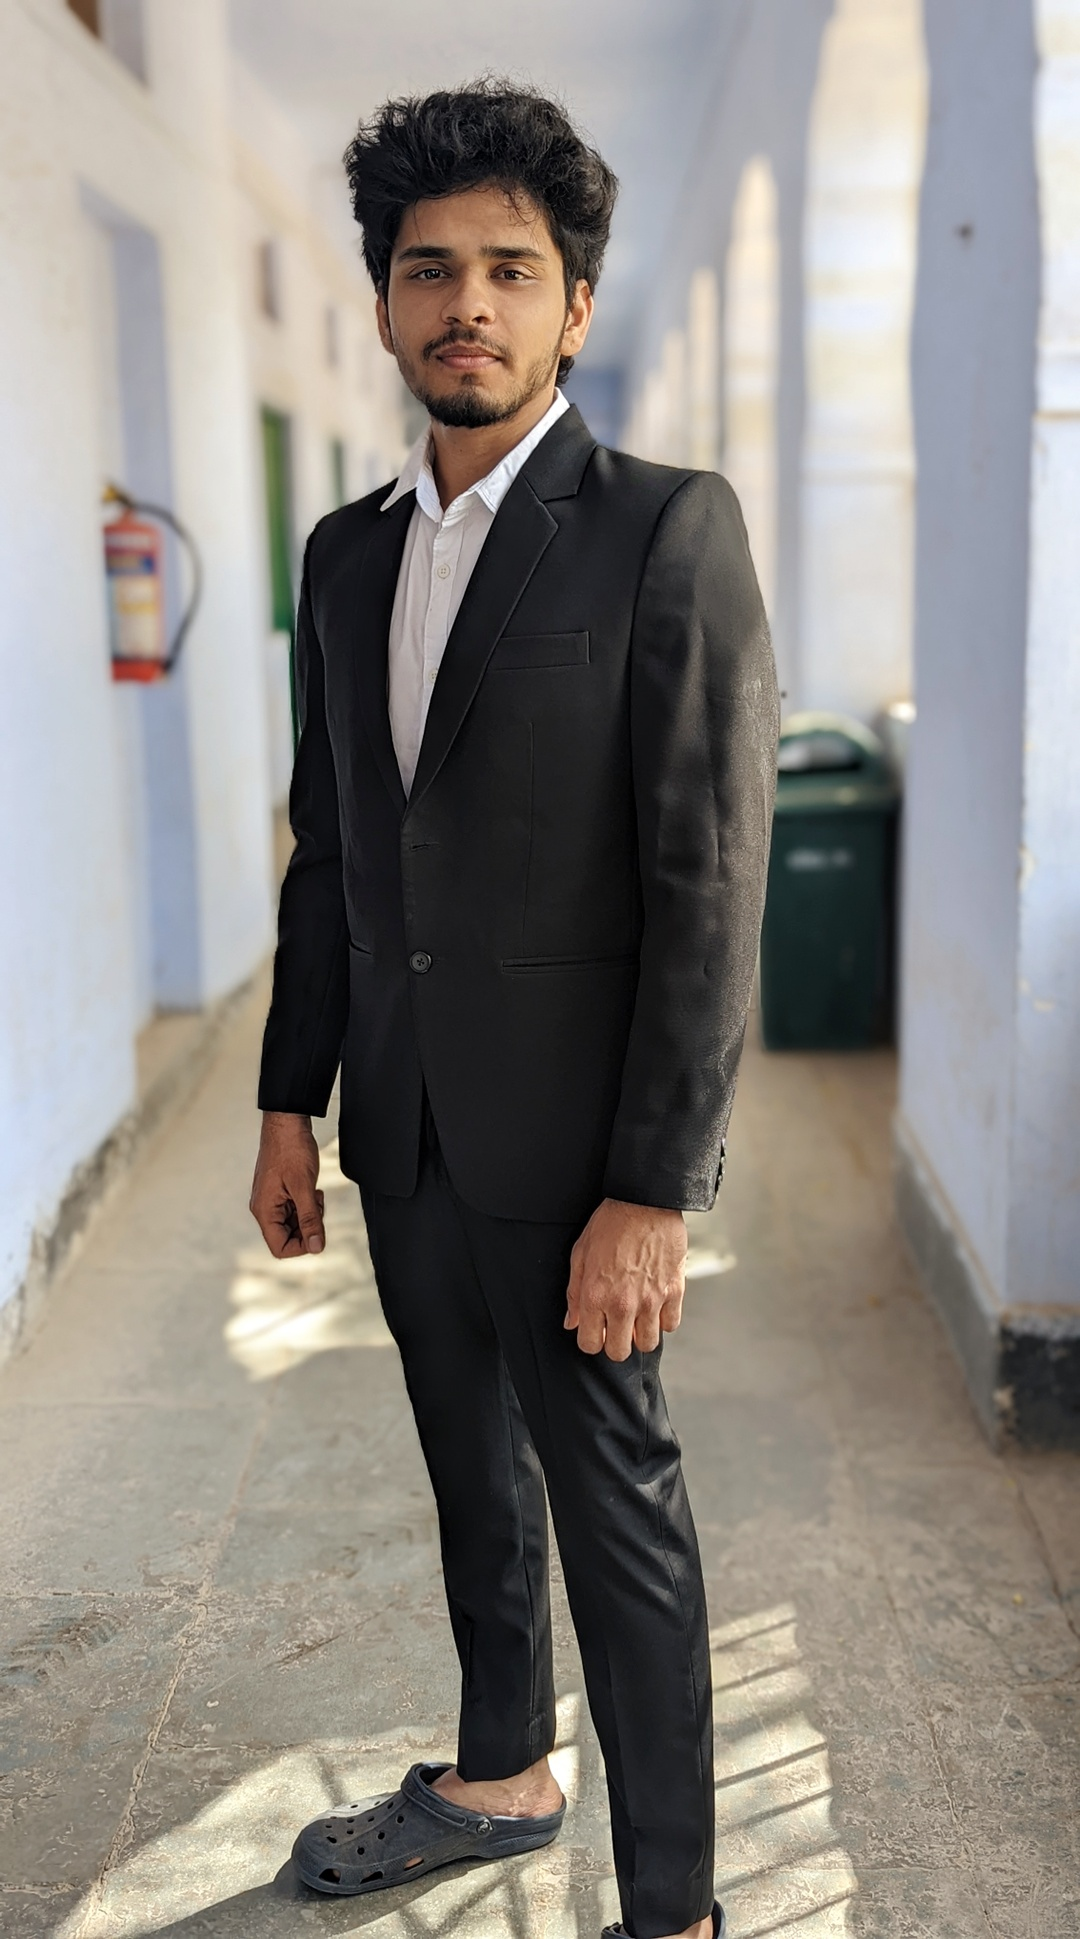
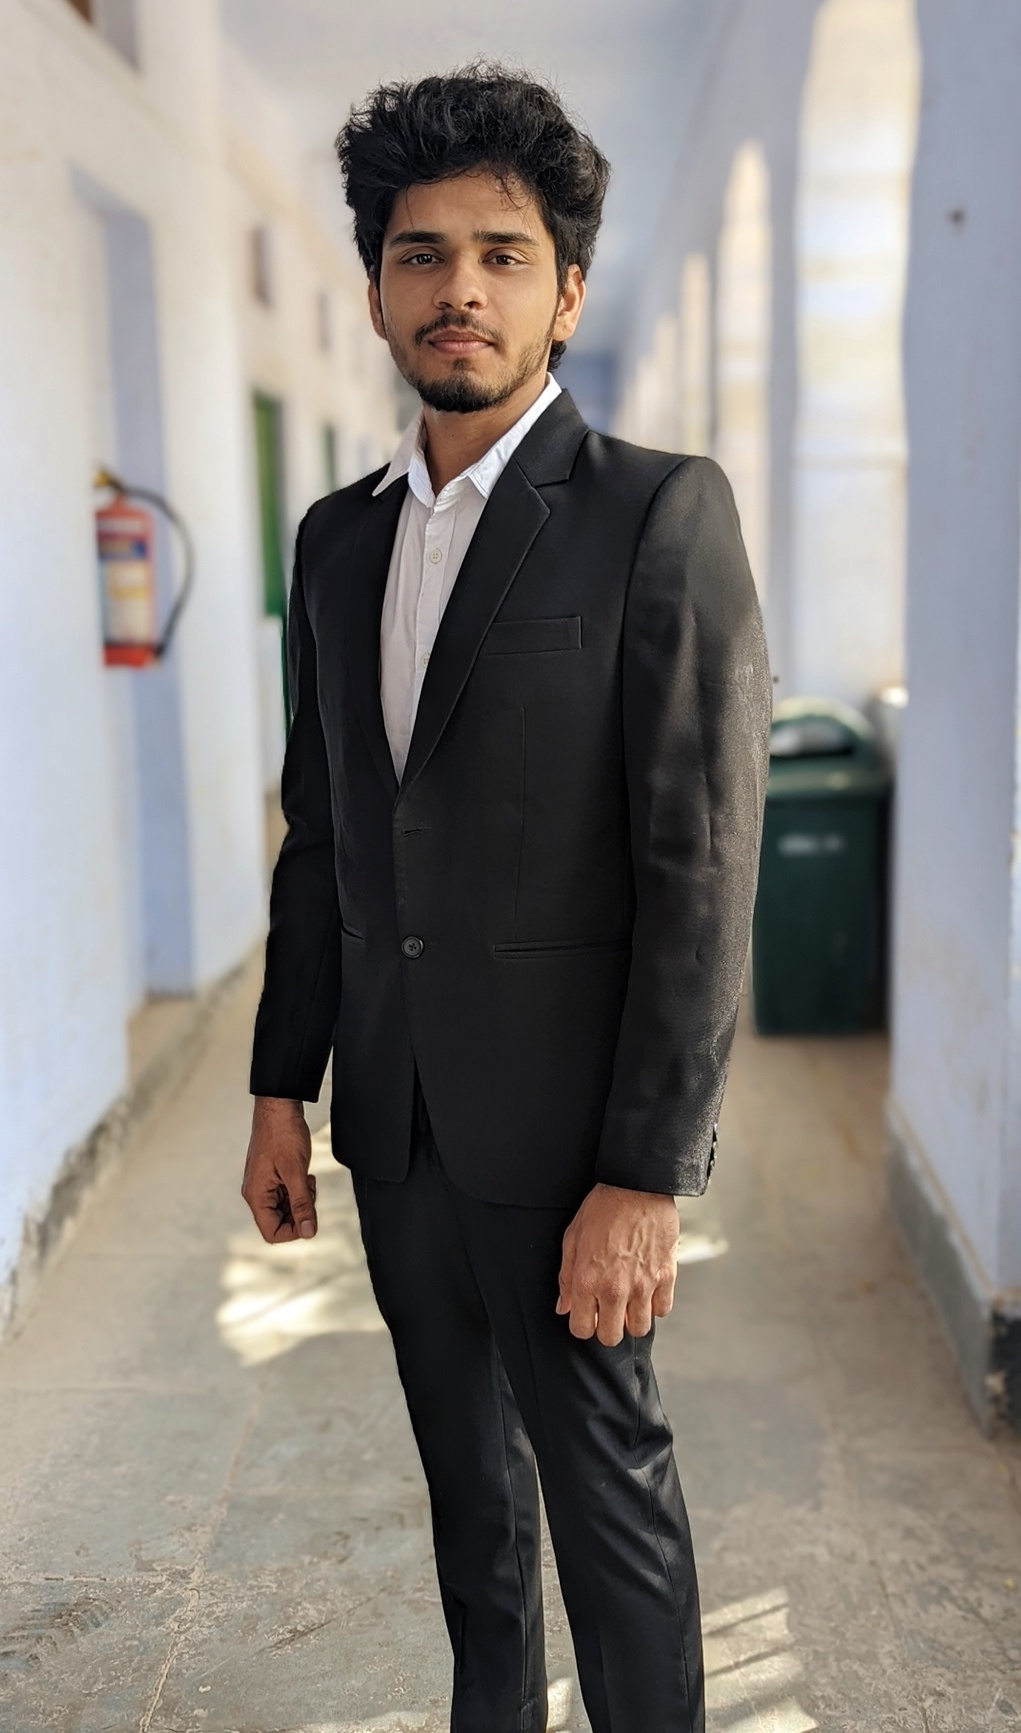
commented out projects

diff --git a/src/components/sections/about.js b/src/components/sections/about.js
@@ -61,30 +61,16 @@ const StyledPic = styled.div`
     position: relative;
     width: 100%;
     border-radius: var(--border-radius);
-    background-color: transparent;
+    background-color: var(--green);
 
-    &:hover,
-    &:focus {
-      background: transparent;
-      outline: 0;
-
-      &:after {
-        top: 15px;
-        left: 15px;
-      }
-
-      .img {
-        filter: none;
-        mix-blend-mode: normal;
-      }
-    }
+    
 
     .img {
       position: relative;
       border-radius: var(--border-radius);
       mix-blend-mode: multiply;
-      filter: grayscale(100%) contrast(1);
-      transition: var(--transition);
+      filter: none;
+      
     }
 
     &:before,
@@ -160,7 +146,7 @@ const About = () => {
         </StyledText>
 
         <StyledPic>
-          <div className="wrapper">
+          
             <StaticImage
               className="img"
               src="../../images/me.jpg"
@@ -169,7 +155,7 @@ const About = () => {
               formats={['AUTO', 'WEBP', 'AVIF']}
               alt="Headshot"
             />
-          </div>
+          
         </StyledPic>
       </div>
     </StyledAboutSection>

diff --git a/src/components/sections/hero.js b/src/components/sections/hero.js
@@ -63,11 +63,7 @@ const Hero = () => {
   const three = <h3 className="big-heading">I love to work and learn in Computer Science, A.I. and Biology.</h3>;
   const four = (
     <p>
-      Graduated with dual majors in Computer Science and Biological Sciences from BITS Pilani, Pilani Campus, India, in June 2022. I am currently working on Deep fake detection and interpretaibility in Computer Vision at // {' '}
-      // <a href="https://www.harvard.edu/" target="_blank" rel="noreferrer">
-      // Harvard University
-      // </a>
-      .
+      Graduated with dual majors in Computer Science and Biological Sciences from BITS Pilani, Pilani Campus, India, in June 2022. I am currently working on Deep fake detection and interpretaibility in Computer Vision.
     </p>
   );
   const five = (

diff --git a/src/components/loader.js b/src/components/loader.js
@@ -53,7 +53,7 @@ const Loader = ({ finishLoading }) => {
         strokeDashoffset: [anime.setDashoffset, 0],
       })
       .add({
-        targets: '#logo #B',
+        targets: '#logo #R',
         duration: 700,
         easing: 'easeInOutQuart',
         opacity: 1,

diff --git a/content/jobs/TIFR/index.md b/content/jobs/TIFR/index.md
@@ -1,11 +1,12 @@
 ---
 date: '2020-04-01'
 title: 'Research Collaborator'
-company: 'Tata Institute of Fundamental Research (TIFR)'
+company: 'TIFR'
 location: 'Mumbai, India'
 range: 'April - July 2020'
 url: 'https://www.tcs.tifr.res.in/~vaze/'
 ---
 
+- TIFR: Tata Institute of Fundamental Research
 - Worked in Game Theory to develop a cake-cutting algorithm to solve the problem of fair resource allocation. It works for any number of agents, and allows for arbitrary valuations over the cake.
 - The allocation resulting from the algorithm ensures an envy-freeness restricted to any arbitrarily small number epsilon. It further ensures that either the resource (cake) gets exhausted, or all the agents get their share

diff --git a/content/jobs/Reality D./index.md b/content/jobs/Reality D./index.md
@@ -7,4 +7,6 @@ range: 'Aug 2022- Ongoing'
 url: ''
 ---
 
-- 
+- Building Deep fakes detector to identify fingerprints from GANs and diffusion methods, image feature consistency for Face Swaps and realistic features for CGI/Game Engine created fakes. 
+- Working on bringing interpretability to detect and understand the source of  and also do frequency domain analysis of various artifacts and compression methods.
+- One of the first to build a fake detector for Diffusion methods created deep fakes and achieve about 94% accuracy.

diff --git a/content/featured/Anomaly Detection/index.md b/content/featured/Anomaly Detection/index.md
@@ -1,5 +1,5 @@
 ---
-date: '1'
+date: '2'
 title: 'Under review at Signal, Image and Video Processing Journal'
 cover: './overview_BMVC.png'
 #github: 'https://github.com/bchiang7/halcyon-site'

diff --git a/content/featured/Cloning and Transformation of E.coli genes/index.md b/content/featured/Cloning and Transformation of E.coli genes/index.md
@@ -1,5 +1,5 @@
 ---
-date: '3'
+date: '1'
 title: 'Genetic Engineering'
 cover: './Transformation_cloning.png'
 #github: 'https://github.com/bchiang7/halcyon-site'

diff --git a/content/featured/HAMN/index.md b/content/featured/HAMN/index.md
@@ -1,5 +1,5 @@
 ---
-date: '2'
+date: '3'
 title: 'CRUMB'
 cover: './HAMN.jpg'
 external: 'https://arxiv.org/abs/2104.02206'
